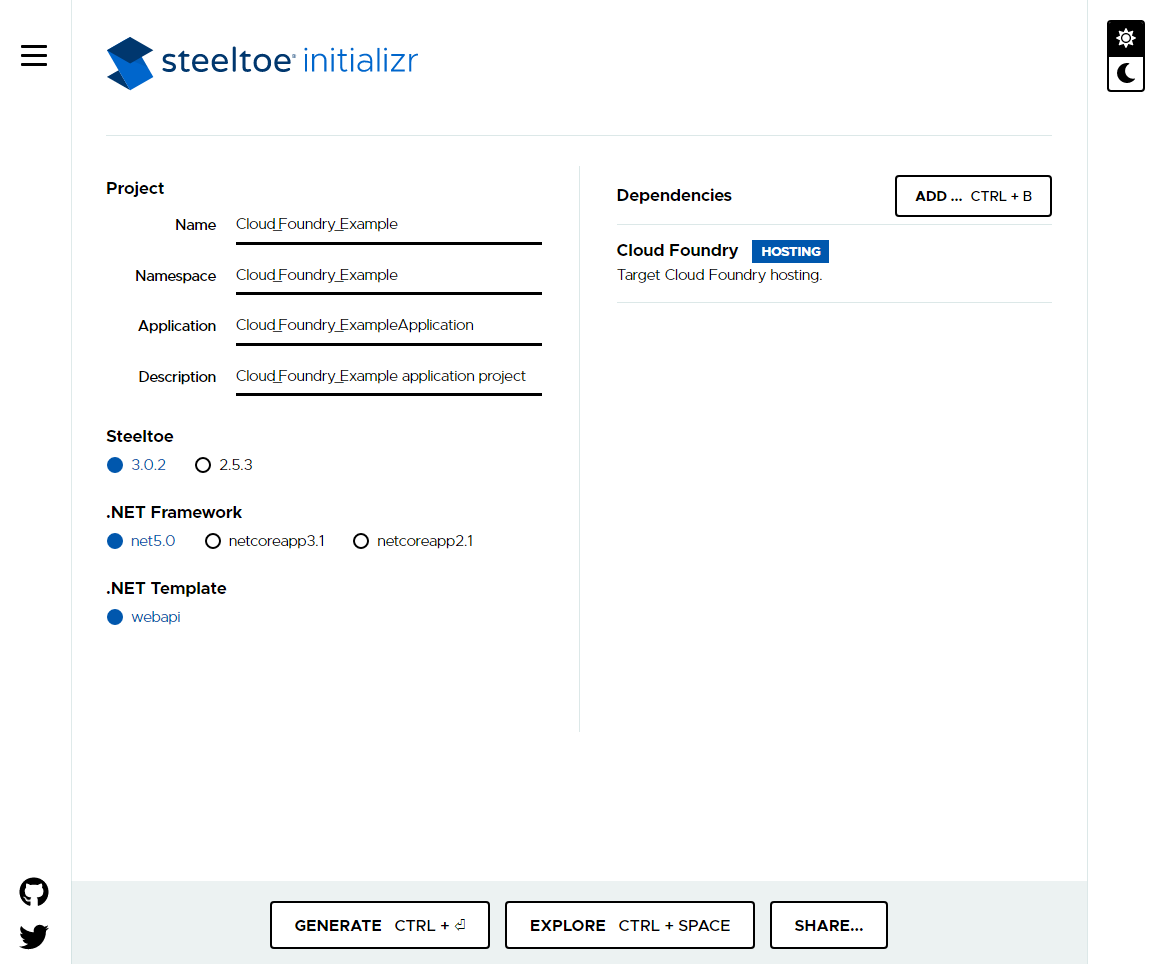
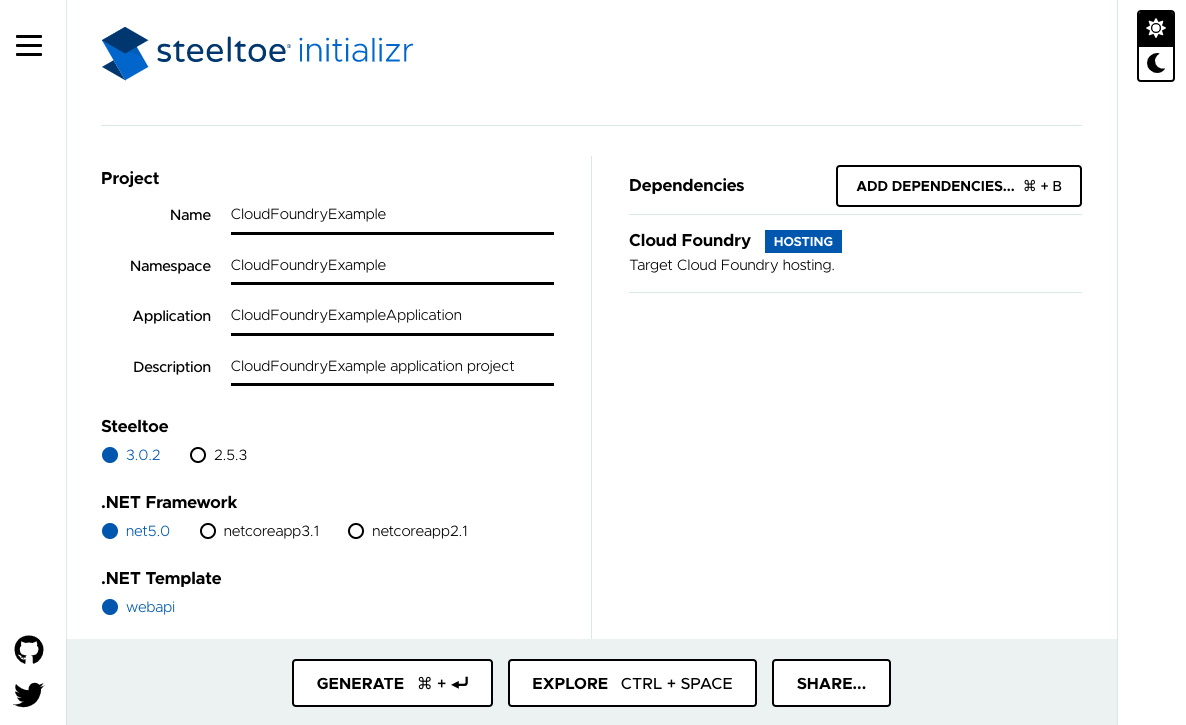
configuration - add ref repo; update images; update project names

diff --git a/guides/application-configuration/cloud-foundry.md b/guides/application-configuration/cloud-foundry.md
@@ -10,13 +10,16 @@ _hideTocVersionToggle: true
 
 This tutorial takes you through setting up a .NET Core application that retrieves environment variable values from Cloud Foundry.
 
+> [!NOTE]
+> For more detailed examples, please refer to the [SimpleCloundFoundry](https://github.com/SteeltoeOSS/Samples/tree/main/Configuration/src/SimpleCloudFoundry) project in the [Steeltoe Samples Repository](https://github.com/SteeltoeOSS/Samples).
+
 First, **create a .NET Core WebAPI** that retrieves (configuration) environment variables from Cloud Foundry.
 
 1. Create a new ASP.NET Core WebAPI app with the [Steeltoe Initializr](https://start.steeltoe.io)
 
   <img src="~/guides/images/initializr/cloud-foundry-dependency.png" alt="Steeltoe Initialzr - Cloud Foundry Dependency" width="100%">
 
-1. Name the project "Cloud_Foundry_Example"
+1. Name the project "CloudFoundryExample"
 1. Add the "Cloud Foundry" dependency
 1. Click **Generate Project** to download a zip containing the new project
 
@@ -25,10 +28,10 @@ First, **create a .NET Core WebAPI** that retrieves (configuration) environment 
 1. Publish the application locally using the .NET cli. The following command will create a publish folder automatically
 
    ```powershell
-   dotnet publish -o .\publish <PATH_TO>\Cloud_Foundry_Example.csproj
+   dotnet publish -o .\publish <PATH_TO>\CloudFoundryExample.csproj
    ```
 
-1. Create **manifest.yml** in the same folder as Cloud_Foundry_Example.csproj
+1. Create **manifest.yml** in the same folder as CloudFoundryExample.csproj
 
    ```yaml
    ---
@@ -39,7 +42,7 @@ First, **create a .NET Core WebAPI** that retrieves (configuration) environment 
    stack: cflinuxfs3
    ```
 
-   > [!TIP]
+   > [!NOTE]
    > With yaml files indention and line endings matter. Use an IDE like VS Code to confirm spacing and that line endings are set to `LF` (not the Windows default `CR LF`)
 
 1. Push the app to Cloud Foundry

diff --git a/guides/application-configuration/spring-config.md b/guides/application-configuration/spring-config.md
@@ -10,6 +10,9 @@ _hideTocVersionToggle: true
 
 This tutorial takes you through setting up a .NET Core application that gets configuration values from a Spring Config Server.
 
+> [!NOTE]
+> For more detailed examples, please refer to the [Simple (Config Server)](https://github.com/SteeltoeOSS/Samples/tree/main/Configuration/src/Simple) project in the [Steeltoe Samples Repository](https://github.com/SteeltoeOSS/Samples).
+
 First, **create a Github repository** to hold config values.
 
 1. Navigate to [Github](https://github.com) and either login or create a new account
@@ -39,8 +42,8 @@ docker run -p 8888:8888 steeltoeoss/config-server --spring.cloud.config.server.g
 Next, **create a .NET Core WebAPI** that retrieves values from the Spring Config instance.
 
 1. Create a new ASP.NET Core WebAPI app with the [Steeltoe Initializr](https://start.steeltoe.io)
-   <img src="~/guides/images/initializr/spring-config.png" alt="Steeltoe Initialzr" width="100%">
-1. Name the project "Spring_Config_Example"
+   <img src="~/guides/images/initializr/spring-config-dependency.png" alt="Steeltoe Initialzr - Spring Config" width="100%">
+1. Name the project "SpringConfigExample"
 1. Add the "Spring Cloud Config Server" dependency
 1. Click **Generate** to download a zip containing the new project
 1. Extract the zipped project and open in your IDE of choice
@@ -64,7 +67,7 @@ Next, **create a .NET Core WebAPI** that retrieves values from the Spring Config
 # [.NET cli](#tab/cli)
 
 ```powershell
-dotnet run <PATH_TO>\Spring_Config_Example.csproj
+dotnet run <PATH_TO>\SpringConfigExample.csproj
 ```
 
 Navigate to the endpoint (you may need to change the port number) [http://localhost:5000/api/values](http://localhost:5000/api/values)

diff --git a/guides/application-configuration/random-value.md b/guides/application-configuration/random-value.md
@@ -10,11 +10,14 @@ _hideTocVersionToggle: true
 
 This tutorial takes you through setting up a .NET Core application that gets a random value for a config setting.
 
+> [!NOTE]
+> For more detailed examples, please refer to the [RandomValue](https://github.com/SteeltoeOSS/Samples/tree/main/Configuration/src/RandomValue) project in the [Steeltoe Samples Repository](https://github.com/SteeltoeOSS/Samples).
+
 First, **create a .NET Core WebAPI** that has a placeholder implemented.
 
 1. Create a new ASP.NET Core WebAPI app with the [Steeltoe Initializr](https://start.steeltoe.io)
    <img src="~/guides/images/initializr/randomvalue-dependency.png" alt="Steeltoe Initialzr - Random Value" width="100%">
-1. Name the project "Random_Value_Example"
+1. Name the project "RandomValueExample"
 1. Add the "Random value" dependency
 1. Click **Generate Project** to download a zip containing the new project
 1. Extract the zipped project and open in your IDE of choice (we use Visual Studio)
@@ -24,7 +27,7 @@ First, **create a .NET Core WebAPI** that has a placeholder implemented.
 # [.NET cli](#tab/cli)
 
 ```powershell
-dotnet run <PATH_TO>\Placeholder_Example.csproj
+dotnet run <PATH_TO>\RandomValueExample.csproj
 ```
 
 Navigate to the endpoint (you may need to change the port number) [http://localhost:5000/api/values](http://localhost:5000/api/values)

diff --git a/guides/application-configuration/placeholder.md b/guides/application-configuration/placeholder.md
@@ -10,11 +10,14 @@ _hideTocVersionToggle: true
 
 This tutorial takes you through setting up a .NET Core application that uses placeholders for config values.
 
+> [!NOTE]
+> For more detailed examples, please refer to the [Placeholder](https://github.com/SteeltoeOSS/Samples/tree/main/Configuration/src/Placeholder) project in the [Steeltoe Samples Repository](https://github.com/SteeltoeOSS/Samples).
+
 First, **create a .NET Core WebAPI** that has a placeholder implemented
 
 1. Create a new ASP.NET Core WebAPI app with the [Steeltoe Initializr](https://start.steeltoe.io)
    <img src="~/guides/images/initializr/placeholder-dependency.png" alt="Steeltoe Initialzr - Placeholder" width="100%">
-1. Name the project "Placeholder_Example"
+1. Name the project "PlaceholderExample"
 1. Add the "Placeholder" dependency
 1. Click **Generate Project** to download a zip containing the new project
 1. Extract the zipped project and open in your IDE of choice (we use Visual Studio)
@@ -24,7 +27,7 @@ First, **create a .NET Core WebAPI** that has a placeholder implemented
 # [.NET cli](#tab/cli)
 
 ```powershell
-dotnet run <PATH_TO>\Placeholder_Example.csproj
+dotnet run <PATH_TO>\PlaceholderExample.csproj
 ```
 
 Navigate to the endpoint (you may need to change the port number) [http://localhost:5000/api/values](http://localhost:5000/api/values)
